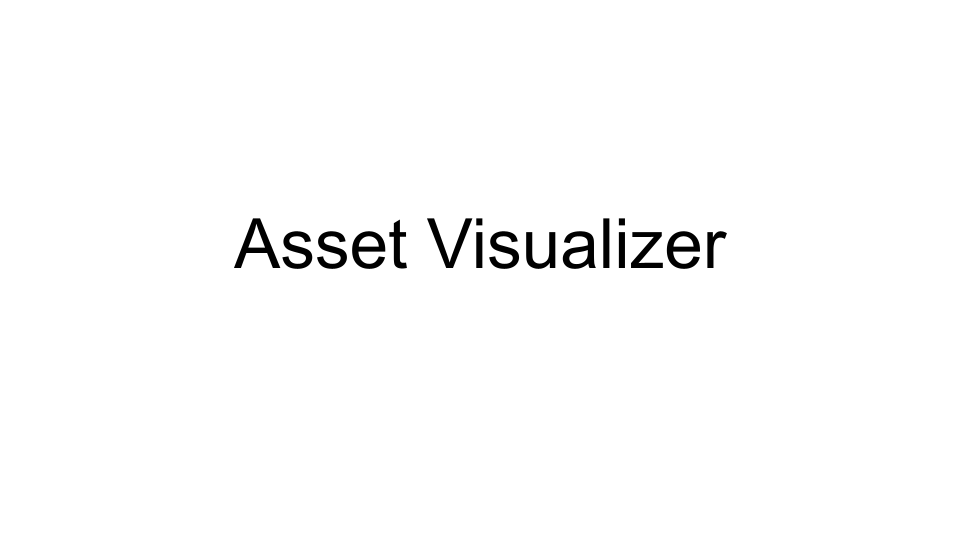
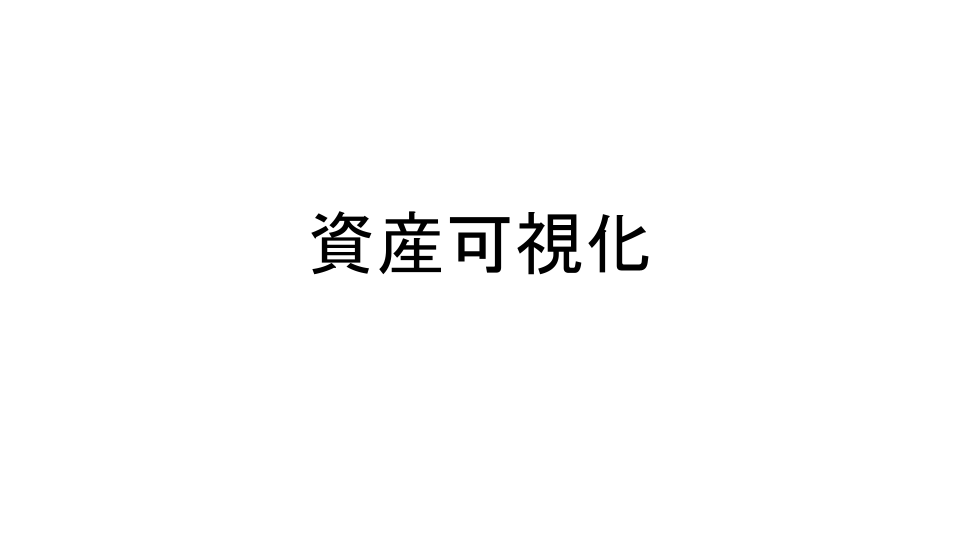
deploy: 4b7da2a4f98246aef48273e9181be5f67e7e866f

Changed region(s): [[0.2188, 0.3852, 0.75, 0.5037]]

diff --git a/404.html b/404.html
@@ -6,14 +6,14 @@
     <meta http-equiv="Cache-Control" content="no-cache, no-store, must-revalidate" />
     <meta http-equiv="Pragma" content="no-cache" />
     <meta http-equiv="Expires" content="0" />
-    <title>Asset Visualizer</title>
+    <title>資産可視化</title>
     <meta property="og:type" content="website" />
-    <meta property="og:title" content="Asset Visualizer" />
+    <meta property="og:title" content="資産可視化" />
     <meta property="og:description" content="資産可視化ダッシュボード" />
     <meta property="og:url" content="https://freddiefujiwara.com/asset/" />
     <meta property="og:image" content="https://freddiefujiwara.com/asset/ogp.png" />
     <meta name="twitter:card" content="summary_large_image" />
-    <meta name="twitter:title" content="Asset Visualizer" />
+    <meta name="twitter:title" content="資産可視化" />
     <meta name="twitter:description" content="資産可視化ダッシュボード" />
     <meta name="twitter:image" content="https://freddiefujiwara.com/asset/ogp.png" />
     <link rel="icon"

diff --git a/index.html b/index.html
@@ -6,14 +6,14 @@
     <meta http-equiv="Cache-Control" content="no-cache, no-store, must-revalidate" />
     <meta http-equiv="Pragma" content="no-cache" />
     <meta http-equiv="Expires" content="0" />
-    <title>Asset Visualizer</title>
+    <title>資産可視化</title>
     <meta property="og:type" content="website" />
-    <meta property="og:title" content="Asset Visualizer" />
+    <meta property="og:title" content="資産可視化" />
     <meta property="og:description" content="資産可視化ダッシュボード" />
     <meta property="og:url" content="https://freddiefujiwara.com/asset/" />
     <meta property="og:image" content="https://freddiefujiwara.com/asset/ogp.png" />
     <meta name="twitter:card" content="summary_large_image" />
-    <meta name="twitter:title" content="Asset Visualizer" />
+    <meta name="twitter:title" content="資産可視化" />
     <meta name="twitter:description" content="資産可視化ダッシュボード" />
     <meta name="twitter:image" content="https://freddiefujiwara.com/asset/ogp.png" />
     <link rel="icon"
